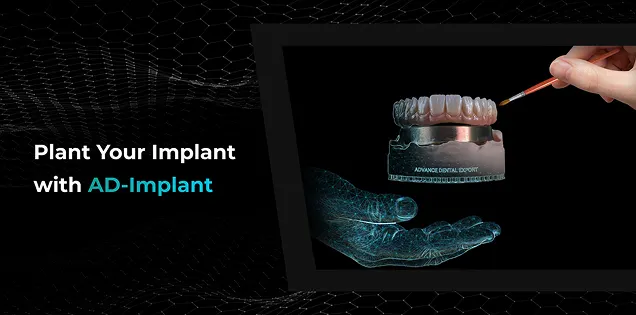
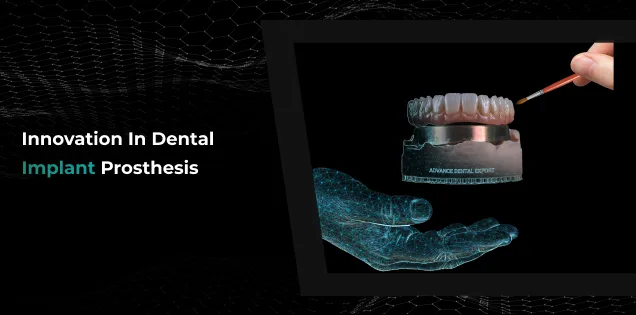
fix css change in single blog page

diff --git a/static/css/style.css b/static/css/style.css
@@ -1977,10 +1977,12 @@ td.text-right {
 }
 
 #banner-7 {
-  /* background-image: url(../ADEcontact14.webp); */
-  background-image: url(../final-group-img1.jpg);
-  padding-top: 140px;
-  padding-bottom: 140px;
+  /* background-image: url(../group-bg-img62.jpg); */
+  background-image: url(../ADEcontact14.webp);
+  /* background-image: url(../final-group-img5.png); */
+  /* background-image: url(../group-bg-img8.jpg); */
+  padding-top: 130px;
+  padding-bottom: 130px;
   background-repeat: no-repeat;
   background-size: cover;
   background-position:top;
@@ -1991,13 +1993,20 @@ td.text-right {
   #banner-7 {
     padding-top: 160px;
     padding-bottom: 160px;
-    background-position:top;
+    /* background-position:top; */
   }
 }
-@media(min-width:1300px) and (max-width:1649px){
+@media(min-width:1300px) and (max-width:1439px){
   #banner-7 {
     padding-top: 170px;
     padding-bottom: 170px;
+    /* background-size: contain; */
+  }
+}
+@media(min-width:1440px) and (max-width:1650px){
+  #banner-7 {
+    padding-top: 190px;
+    padding-bottom: 190px;
   }
 }
 @media(min-width:1650px) and (max-width:1800px){
@@ -2009,9 +2018,9 @@ td.text-right {
 }
 @media(min-width:1800px){
    #banner-7 {
-    padding-top: 180px;
-    padding-bottom: 180px;
-    background-size: auto 100%;
+    padding-top: 250px;
+    padding-bottom: 250px;
+    background-size: 100% auto;
   }
 }
 /* @media (min-width: 1800px) and (max-width: 2000px) {

diff --git a/static/css/blog.css b/static/css/blog.css
@@ -427,9 +427,10 @@
 }
 .author-image img{
   position:relative;
-  margin-top: -28%;
+  margin-top: -17%;
   width:100%;
-  height: 350px;
+  height: auto;
+  /* height: 350px; */
     /* width: 900px; */
     /* margin-right: 30px; */
     /* width:100%;
@@ -465,7 +466,7 @@
 
 }
 .blog-author-content .author-bio p{
-    font-size: 14px;
+    font-size: 13px;
     color:rgba(0, 0, 0, 1);
     margin-bottom: 0px !important;
     font-weight: 400;
@@ -768,13 +769,16 @@
   .blog-author-content .author-name{
     font-size: 46px;
   }
+  .author-image img{
+    margin-top: 20%;
+  }
 }
 @media(max-width:992px){
   .blog-page-section .row{
     --bs-gutter-x: 1rem;
   }
   .single-blog-content2{
-    padding: 10px 5px 0px;
+    padding: 10px 10px 0px;
   }
   .single-blog-content2:last-child{
     padding: 10px 10px 0px;

diff --git a/home/templates/index.html b/home/templates/index.html
@@ -1703,13 +1703,15 @@
         class="col-lg-4 col-md-6 col-sm-6 col-11 mt-0 mt-sm-4 mt-lg-0 mt-md-4"
       >
         <div class="news-blog-card card">
-          <img
-            src="{{ blog.image.url }}"
-            class="news-img img-fluid"
-            alt="{{blog.alt}}"
-            width="100%"
-            height="100%"
-          />
+          <a href="{% url 'home:blogd' blog.slug %}">
+            <img
+              src="{{ blog.image.url }}"
+              class="news-img img-fluid"
+              alt="{{blog.alt}}"
+              width="100%"
+              height="100%"
+            />
+          </a>
           <div class="card-body">
             <div
               class="d-flex align-items-center position-relative justify-content-between blog-meta"

diff --git a/blog/templates/blog_home.html b/blog/templates/blog_home.html
@@ -62,7 +62,7 @@
 						{% for blog in first_blog %}
 							<div class="col-lg-4 col-md-6 col-sm-11 order-lg-1 order-2">
 										<div class="position-relative mx-auto all-blog-content card">
-											<img src="{{blog.image.url}}" class="card-img-top h-100 img-fluid" alt="{{blog.alt}}"/>
+											<a href="{% url 'home:blogd' blog.slug %}"><img src="{{blog.image.url}}" class="card-img-top h-100 img-fluid" alt="{{blog.alt}}"/></a>
 											<div class="card-body">
 												<div class="blog-content-txt">
 													<div class="my-2 blog-author-date-content d-flex justify-content-between">

diff --git a/blog/templates/blog_detail.html b/blog/templates/blog_detail.html
@@ -487,7 +487,7 @@
         <div class="sidebar-sticky-wrapper">
           {% if related_blogs|length >= 1 %}
             <div class="single-blog-content2 mb-3">
-              <div class="row align-items-center mb-4">
+              <div class="row align-items-center mb-4 mb-md-3 mb-sm-3">
                 {% for ie in related_blogs %}
                   <div class="col-lg-5 col-md-5 my-2  my-md-3">
                     <img

diff --git a/static/css/banner.css b/static/css/banner.css
@@ -248,7 +248,7 @@
 }
 .letter {
   overflow: hidden;
-  height: 1em;
+  height: 1.2em;
   width: 1ch;
   position: relative;
 }
@@ -265,7 +265,7 @@
   color: transparent;
 }
 .letter-track span {
-  line-height: 1em;
+  line-height: 0.95em;
   height: 1em;
   display: block;
   text-align: center;

diff --git a/static/css/adImplant.css b/static/css/adImplant.css
@@ -62,9 +62,7 @@
     width: 100%;
   }
 }
-.typeslider-wrapper {
-  display: flex;
-}
+
 .typeslider .slider {
   margin: 10px auto 40px;
   max-width: 1200px;
